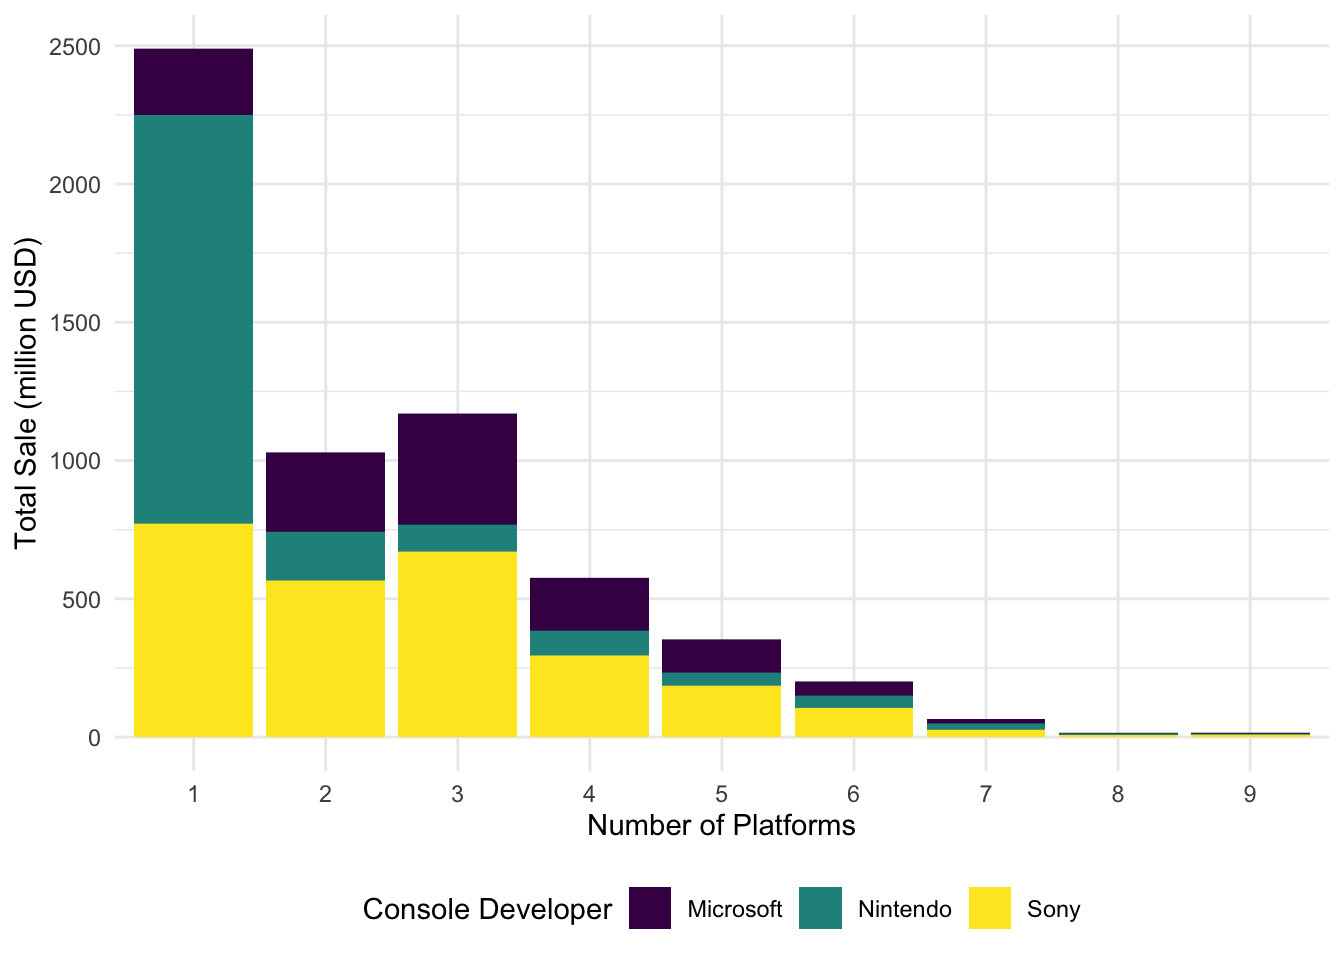
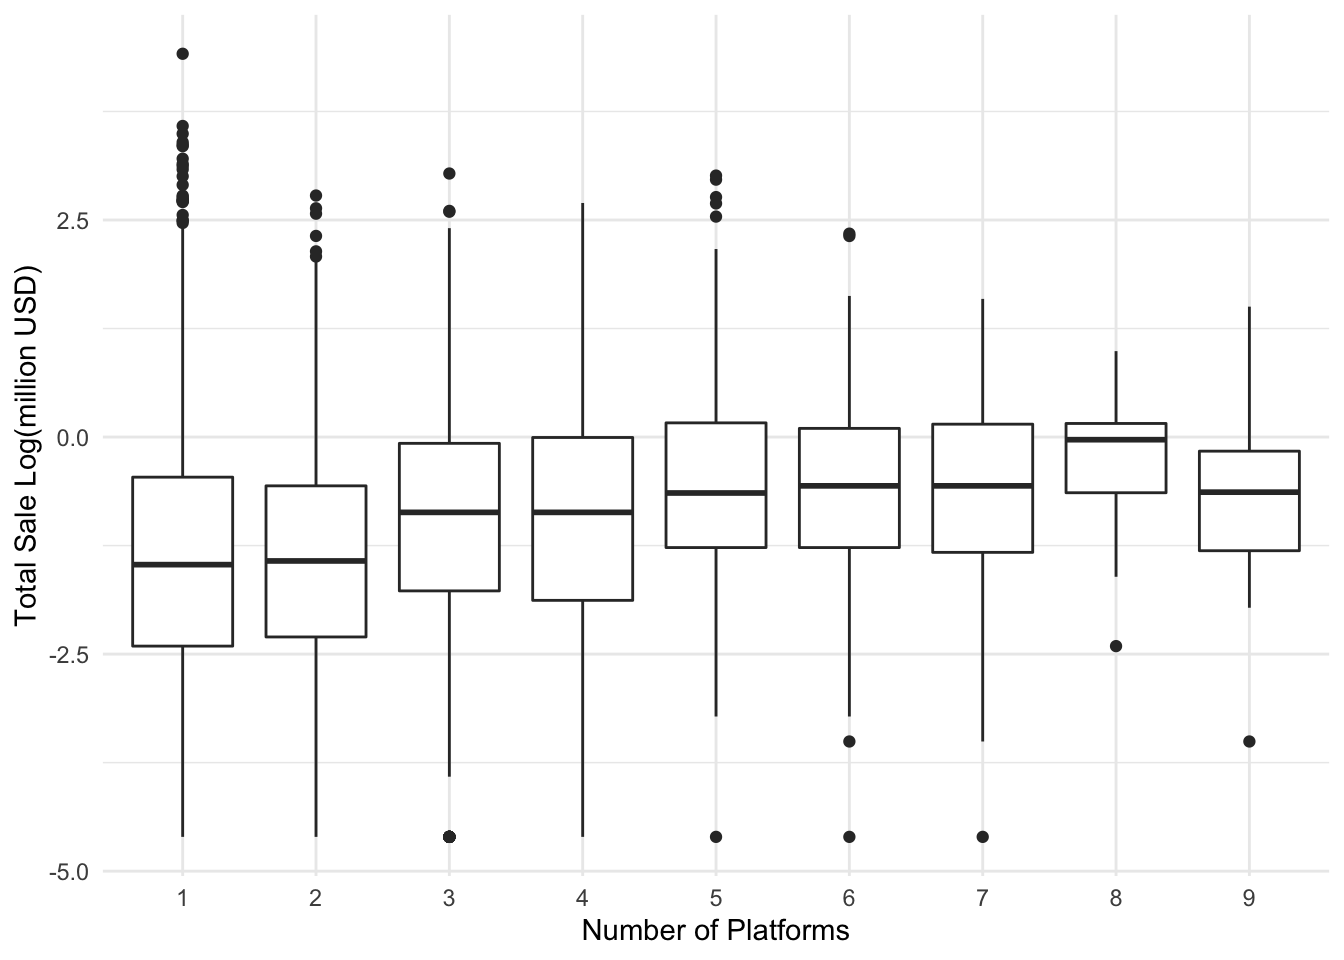
change the number of platform bar plot to boxplot

diff --git a/final_report.html b/final_report.html
@@ -820,8 +820,8 @@ totalsale + totalcount</code></pre>
 <p>The revenues of each company, however, were not the same across the genres. <strong>Nintendo</strong> earned more profits from making games in sports, role-playing, and platform, with each of them brought back more than 250 million USD. <strong>Sony</strong>’s gaming sales were mostly from the action, sports, and shooting genre with each brought approximately more than 500 million USD. <strong>Microsoft</strong>, despite the latest competitor to enter the video game industry, dominates the field in shooting, sports, and action genres. The company’s highest revenue was from shooting games with more than 350 million USD.</p>
 <p><br></p>
 </div>
-<div id="question-3" class="section level3">
-<h3>Question 3</h3>
+<div id="relationship-between-critic-score-and-total-revenues" class="section level3">
+<h3>Relationship between critic score and total revenues</h3>
 <pre class="r"><code>games_df %&gt;% 
   filter(total_sale &lt; 5) %&gt;% 
   ggplot(aes(x = critic_score, y = total_sale, color = console_developer)) +
@@ -829,15 +829,19 @@ totalsale + totalcount</code></pre>
   geom_smooth(method = &#39;lm&#39;, se = F) +
   labs(x = &quot;Critic Score&quot;, y = &quot;Total Sale (million USD)&quot;, color = &quot;Console Developer&quot;)</code></pre>
 <p><img src="final_report_files/figure-html/q3-1.png" width="672" /></p>
+<p>Critic consensus on a game usually has some correlation with the success of the game in the market in which the critic score can influence the consumer’s decision to buy games. Sony’s games had the best correlation of the critic score and the total sales, their games overall had the highest scores and the global revenues of approximately more than 1.0 million USD. Microsoft and Nintendo, respectively, are the second and third companies that had lower overall total sales and critic scores relationship. Overall, our data shows that the majority of games with higher scores were produced by <strong>Sony</strong> and thus, having the highest total revenues.</p>
+<p><br></p>
 </div>
-<div id="question-4" class="section level3">
-<h3>Question 4</h3>
+<div id="platform-availability" class="section level3">
+<h3>Platform Availability</h3>
 <pre class="r"><code>games_df %&gt;% 
   mutate(n_platforms = as.factor(n_platforms)) %&gt;% 
-  ggplot(aes(x = n_platforms, y = total_sale, fill = console_developer)) +
-  geom_bar(stat = &quot;identity&quot;, position = &quot;stack&quot;) +
-  labs(x = &quot;Number of Platforms&quot;, y = &quot;Total Sale (million USD)&quot;, fill = &quot;Console Developer&quot;)</code></pre>
+  ggplot(aes(x = n_platforms, y = log(total_sale))) +
+  geom_boxplot() +
+  labs(x = &quot;Number of Platforms&quot;, y = &quot;Total Sale Log(million USD)&quot;)</code></pre>
 <p><img src="final_report_files/figure-html/q4-1.png" width="672" /></p>
+<p>Another factor that has a big impact on how well a game sales is the number of platforms the game is available. Most players do not have multiple consoles and a game that releases on multiple platforms has a much higher potential customer number. The plot showed that most players owned only 1 or 2 consoles. There was a large distribution of total revenues in games sold in 1 and 2 platforms.</p>
+<p><br></p>
 </div>
 </div>
 <div id="anova-test" class="section level2">
